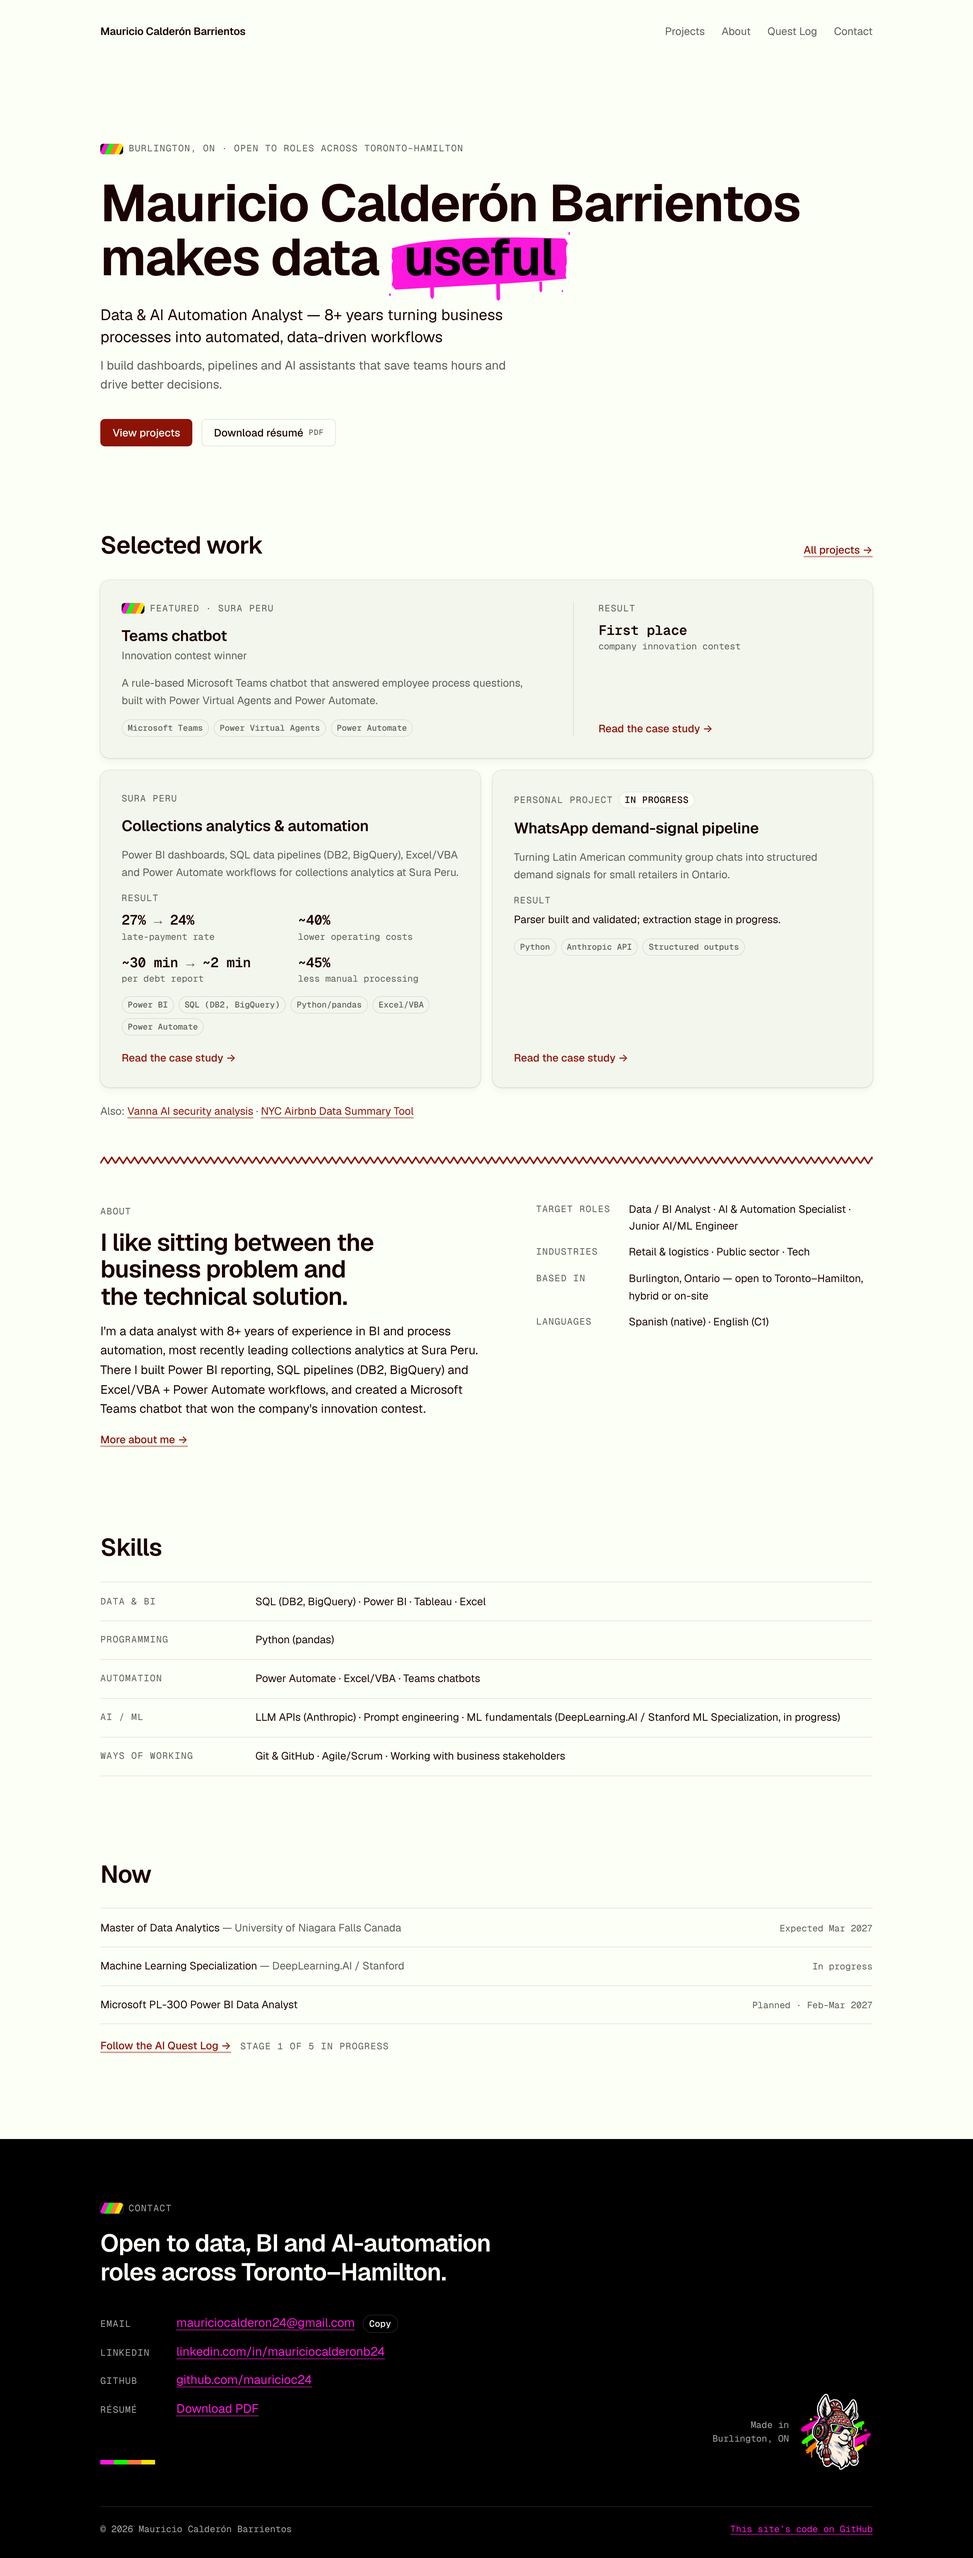
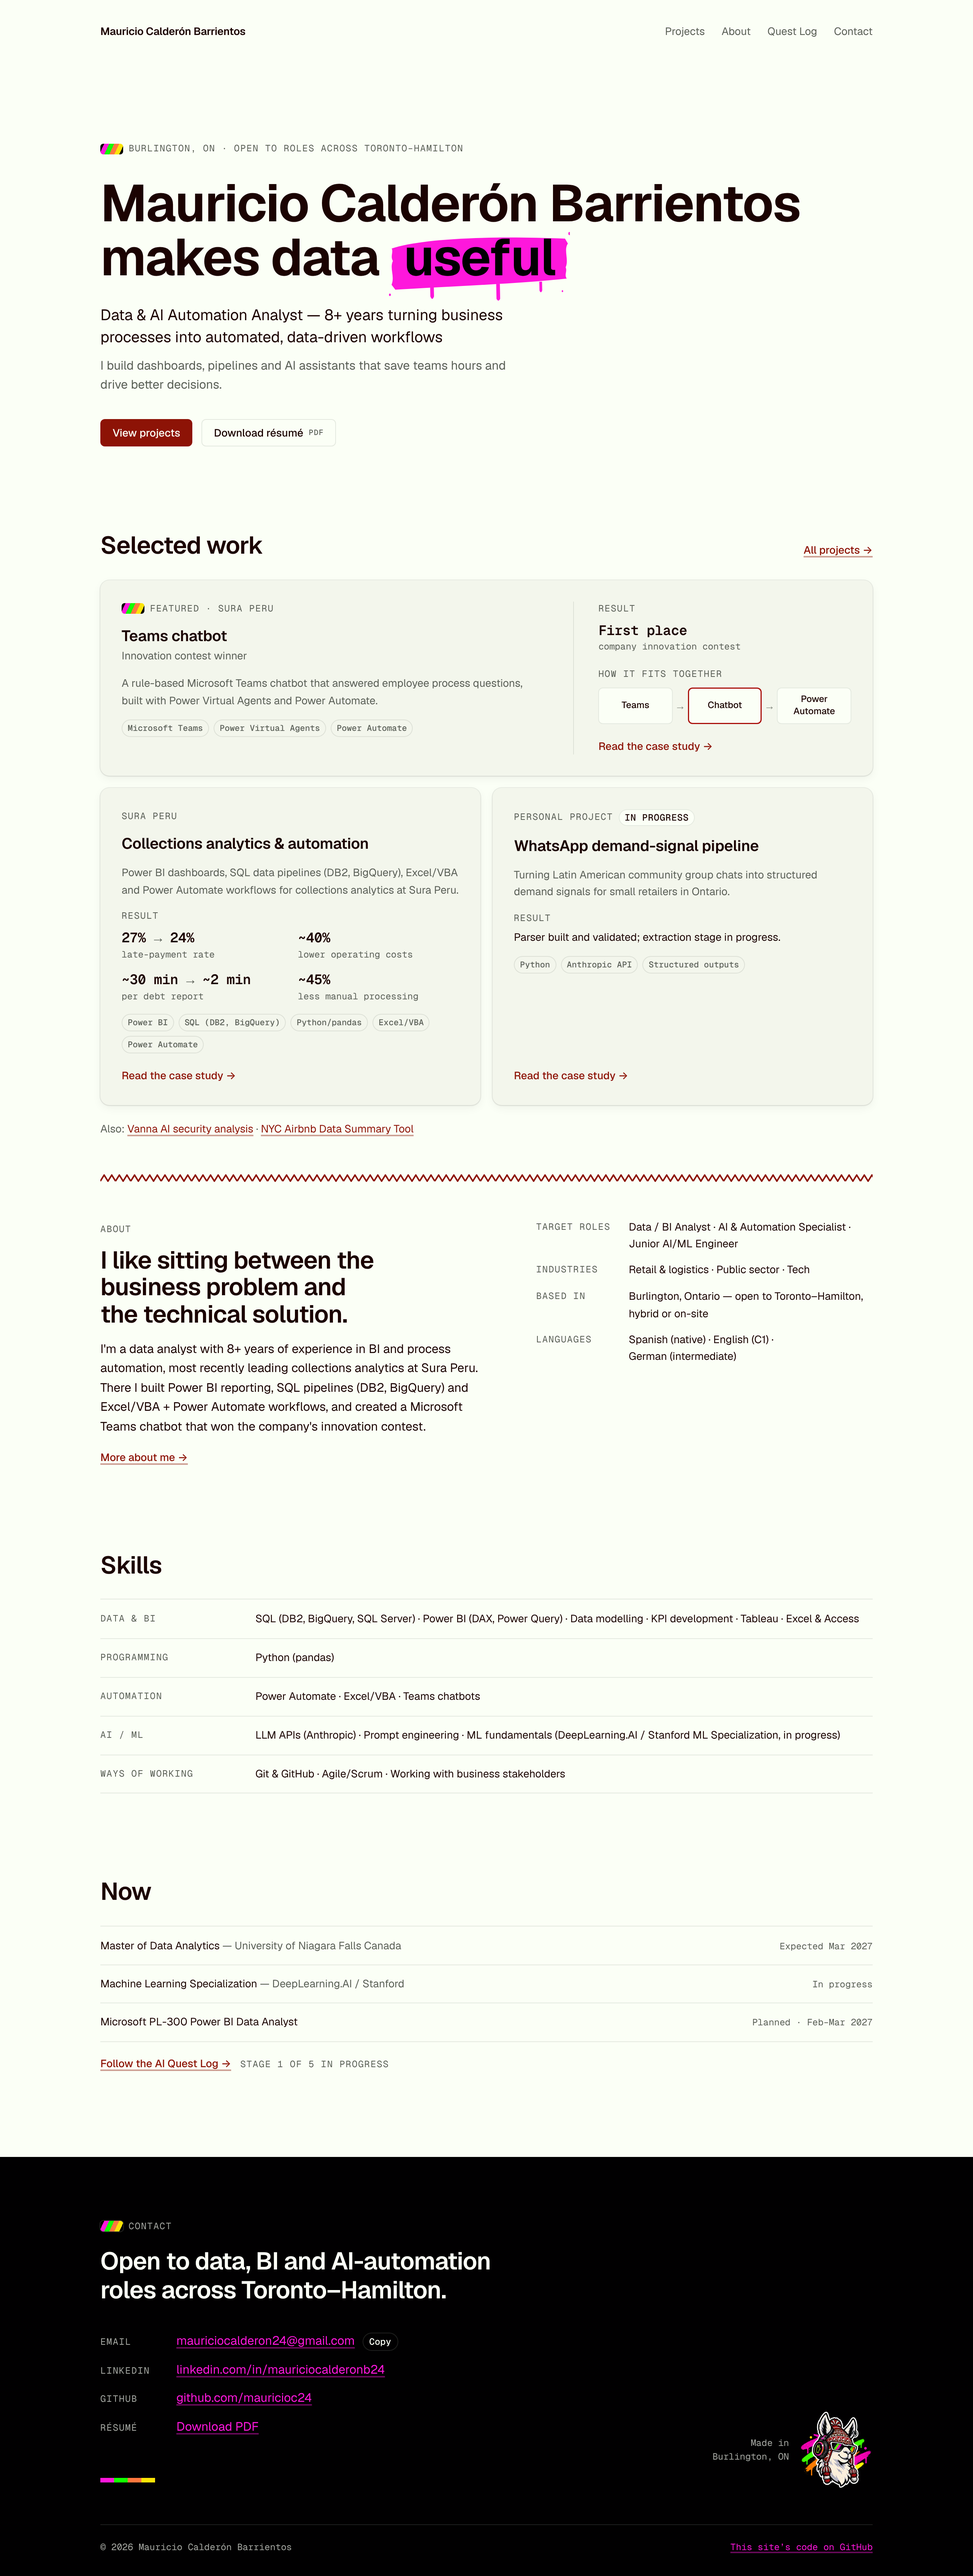
Update docs and refresh the home review screenshots
- LEARNINGS.md: why skills use the résumé's exact words, how the mini
  diagram shares its data with the case study
- TODO.md: keywords and German done; chatbot problem sentence still pending
- CLAUDE.md: note on the featured card's mini diagram
- review-screenshots: home at 1280px and 375px with these changes

Claude-Session: https://claude.ai/code/session_01QW8vZEFqo1uXA4fUwJCeJr

diff --git a/TODO.md b/TODO.md
@@ -8,7 +8,7 @@ Everything below is **hidden on the public site** until you fill it in. Recruite
 
 | # | What's missing | Where it will appear | Where to type it |
 |---|---|---|---|
-| 1 | **Teams chatbot: the problem.** What pain did the bot solve? (For example, how people got answers before it existed.) The résumé only says it handled "employee process questions". | A "Problem" section at the top of the chatbot case study | `projects.json` → `teams-chatbot` → `"problem"` |
+| 1 | **Teams chatbot: the problem.** One sentence on what pain the bot solved (for example, how people got answers before it existed). The résumé only says it handled "employee process questions". Still waiting: the Nov 4 request arrived with the placeholder "[your one sentence]" unfilled. | A "Problem" section at the top of the chatbot case study | `projects.json` → `teams-chatbot` → `"problem"` |
 | 2 | **Teams chatbot: usage numbers.** Time saved, number of users, or requests per month. | A second line under "Result" | `projects.json` → `teams-chatbot` → second item in `"results"` |
 | 3 | **Collections dashboard mockup.** An anonymized image with no real figures beyond the ones in your résumé. | A picture in the collections case study | Put the image in `assets/img/`, then set `projects.json` → `collections-analytics` → `"visual"` → `"src"` (for example `"/assets/img/collections-mockup.png"`) |
 | 4 | **WhatsApp pipeline: repo link**, with the sample data anonymized | "Links" section of that case study | `projects.json` → `whatsapp-demand-signals` → `"links"` → `"href"` |
@@ -32,4 +32,4 @@ Everything below is **hidden on the public site** until you fill it in. Recruite
 ## Optional polish (visible now, but worth a look)
 
 - **About page color story.** It uses the wording suggested in `brand/BRAND.md`. Rewrite it in your own voice when you have a minute: it's in `about/index.html`, inside "Why these colors".
-- **Résumé facts not on the site yet** (left out on purpose until you decide): DAX, Power Query, data modelling, SQL Server and Access in Skills; German (intermediate) in Languages; your certificates (Advanced Excel, Power BI & Dashboards, ESAN Executive Program in BI, Google Cloud GenAI paths). Add them to `CONTENT.md` first if you want them shown.
+- **Résumé facts not on the site yet:** your certificates (Advanced Excel, Power BI & Dashboards, ESAN Executive Program in BI, Google Cloud GenAI paths). Add them to `CONTENT.md` first if you want them shown. (The BI skill keywords, German and the self-service app were added on Nov 4, 2026.)

diff --git a/LEARNINGS.md b/LEARNINGS.md
@@ -89,6 +89,12 @@ Run it inside the repo folder, then open http://localhost:8000. Press Ctrl+C to 
 
 **Why three of Emil's skills were left out.** `write-swift`, `animate-expo` and `ask-sonner` are for iPhone apps, React Native and a React toast library. This site uses none of those, so they'd only add noise.
 
+**Skills use the résumé's exact tool names.** Recruiters search for words like DAX, Power Query or SQL Server, so the Skills list repeats them exactly as your résumé writes them ("Data modelling" keeps its Canadian spelling).
+
+**The featured card has a mini diagram.** It's drawn from the same steps as the chatbot case study (the `"visual"` steps in `projects.json`), so the two can never disagree. A step can have a short label, like `"short": "Teams"`, so the small version stays compact. Change the steps once and both diagrams update.
+
+**Experience rows can carry one highlight line.** The customer self-service app sits under your Analyst III role, word for word from the résumé.
+
 **The `MC` favicon is drawn from the real Geist Mono letters**, as BRAND.md asks, until the pixel llama exists. The social preview image (`assets/img/og-image.png`) is what LinkedIn shows when someone shares the site.
 
 ## 7. The automatic checks on every pull request

diff --git a/CLAUDE.md b/CLAUDE.md
@@ -20,6 +20,7 @@ Portfolio for **Mauricio Calderón Barrientos** (always this spelling, with the 
 - Each case study is `projects/<slug>.html`: a small page with its own `<title>` and description (for link previews), whose content comes from the `projects.json` entry with the same `slug`.
 - The header and footer are copied into all 10 HTML pages. Change all of them together. The footer omits the llama sign-off on `about/index.html` and `404.html` (one llama per screen).
 - Use root-absolute paths (`/assets/…`, `/projects/…`), because `404.html` can be served at any URL depth.
+- The featured card shows a small version of its project's `"visual"` flow (each step's `"short"` label if it has one). Edit the steps in `projects.json` and both diagrams update.
 
 ## Adding a project
 
